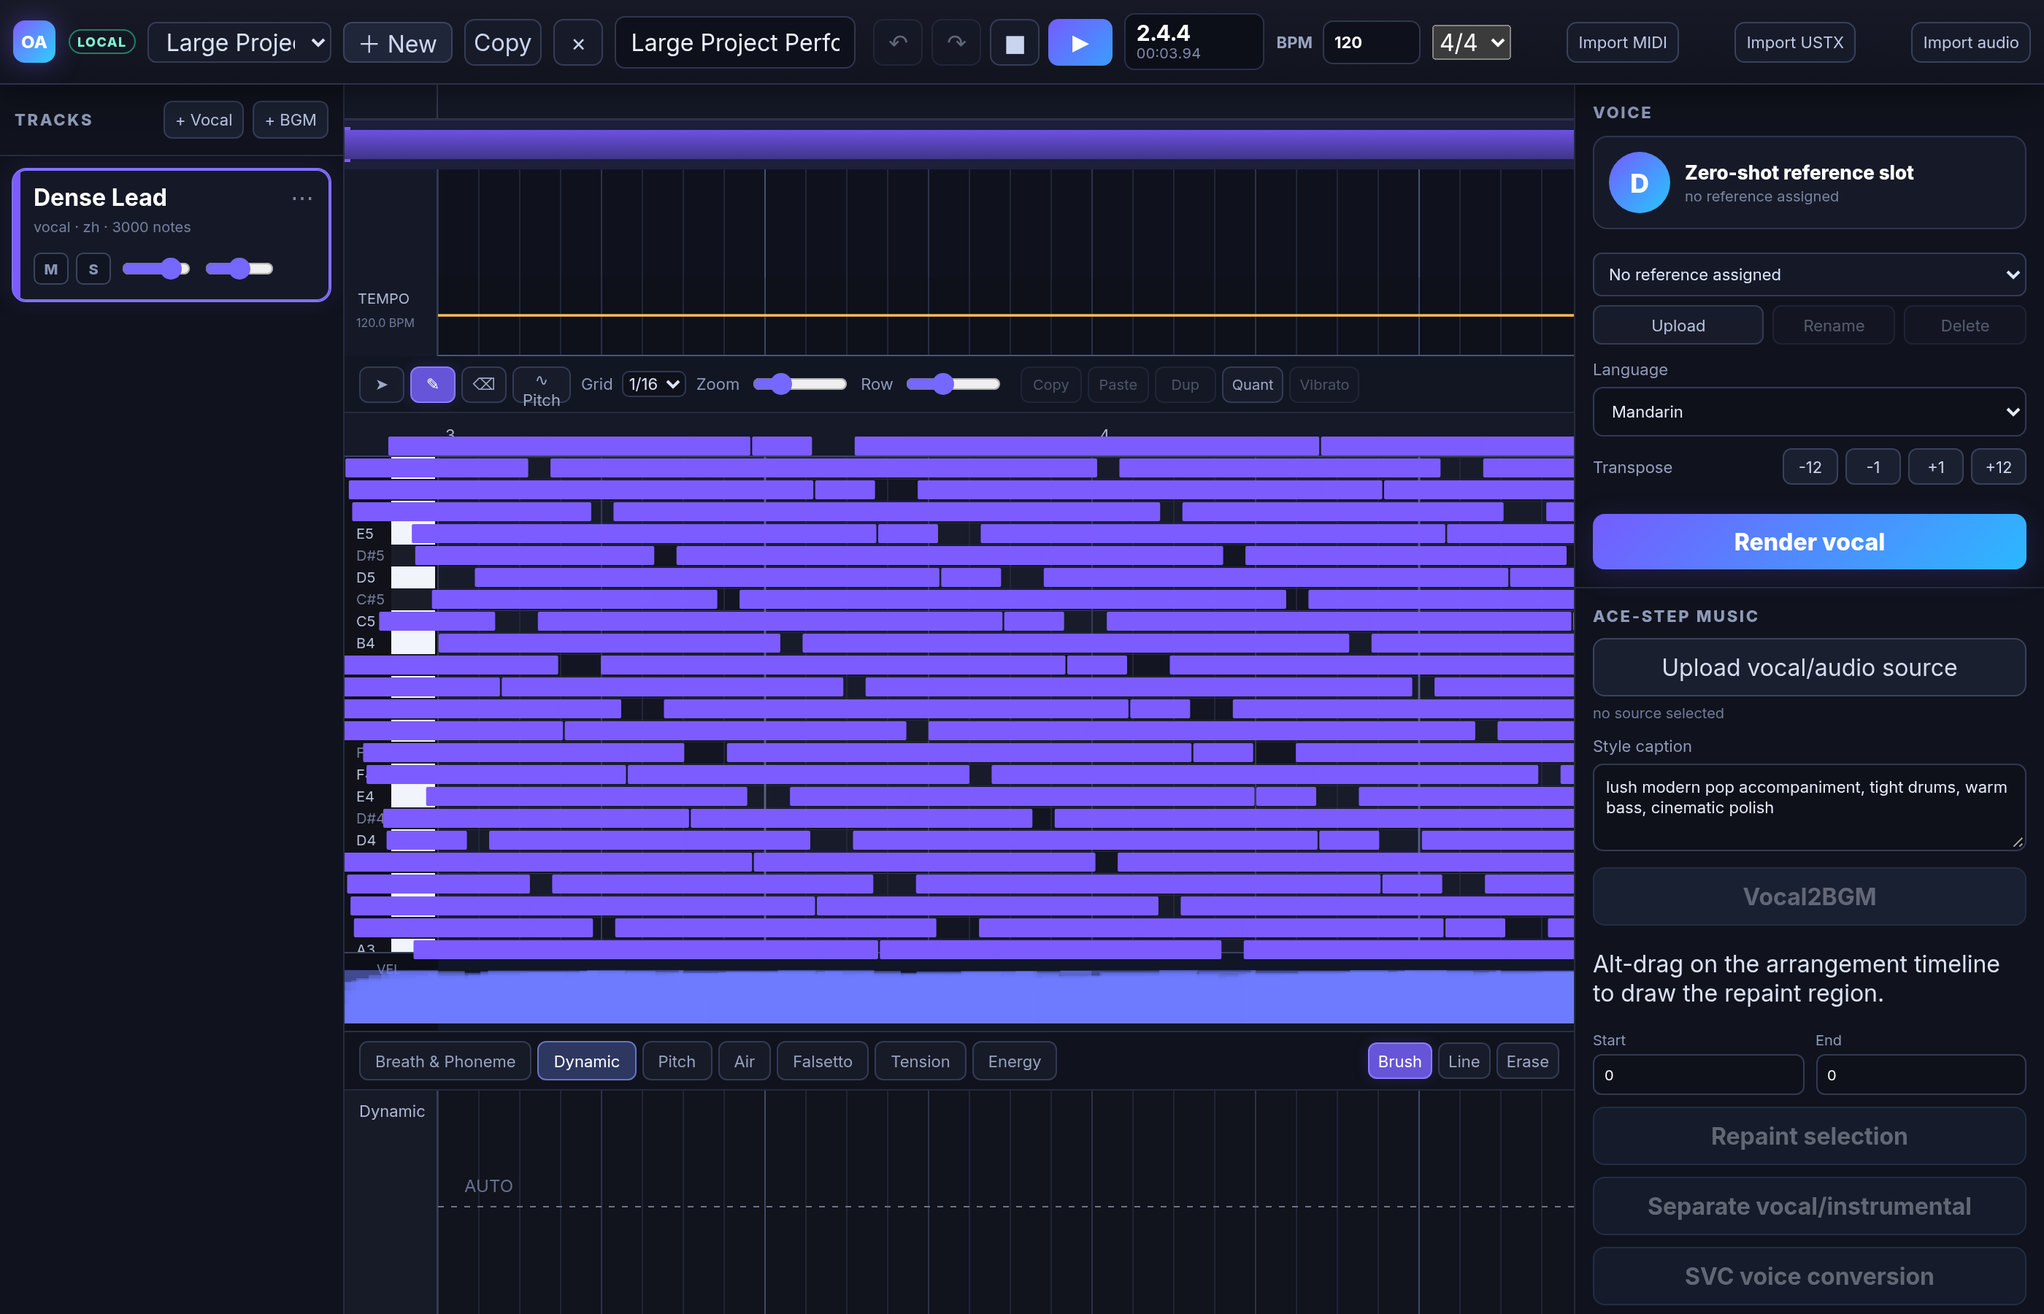
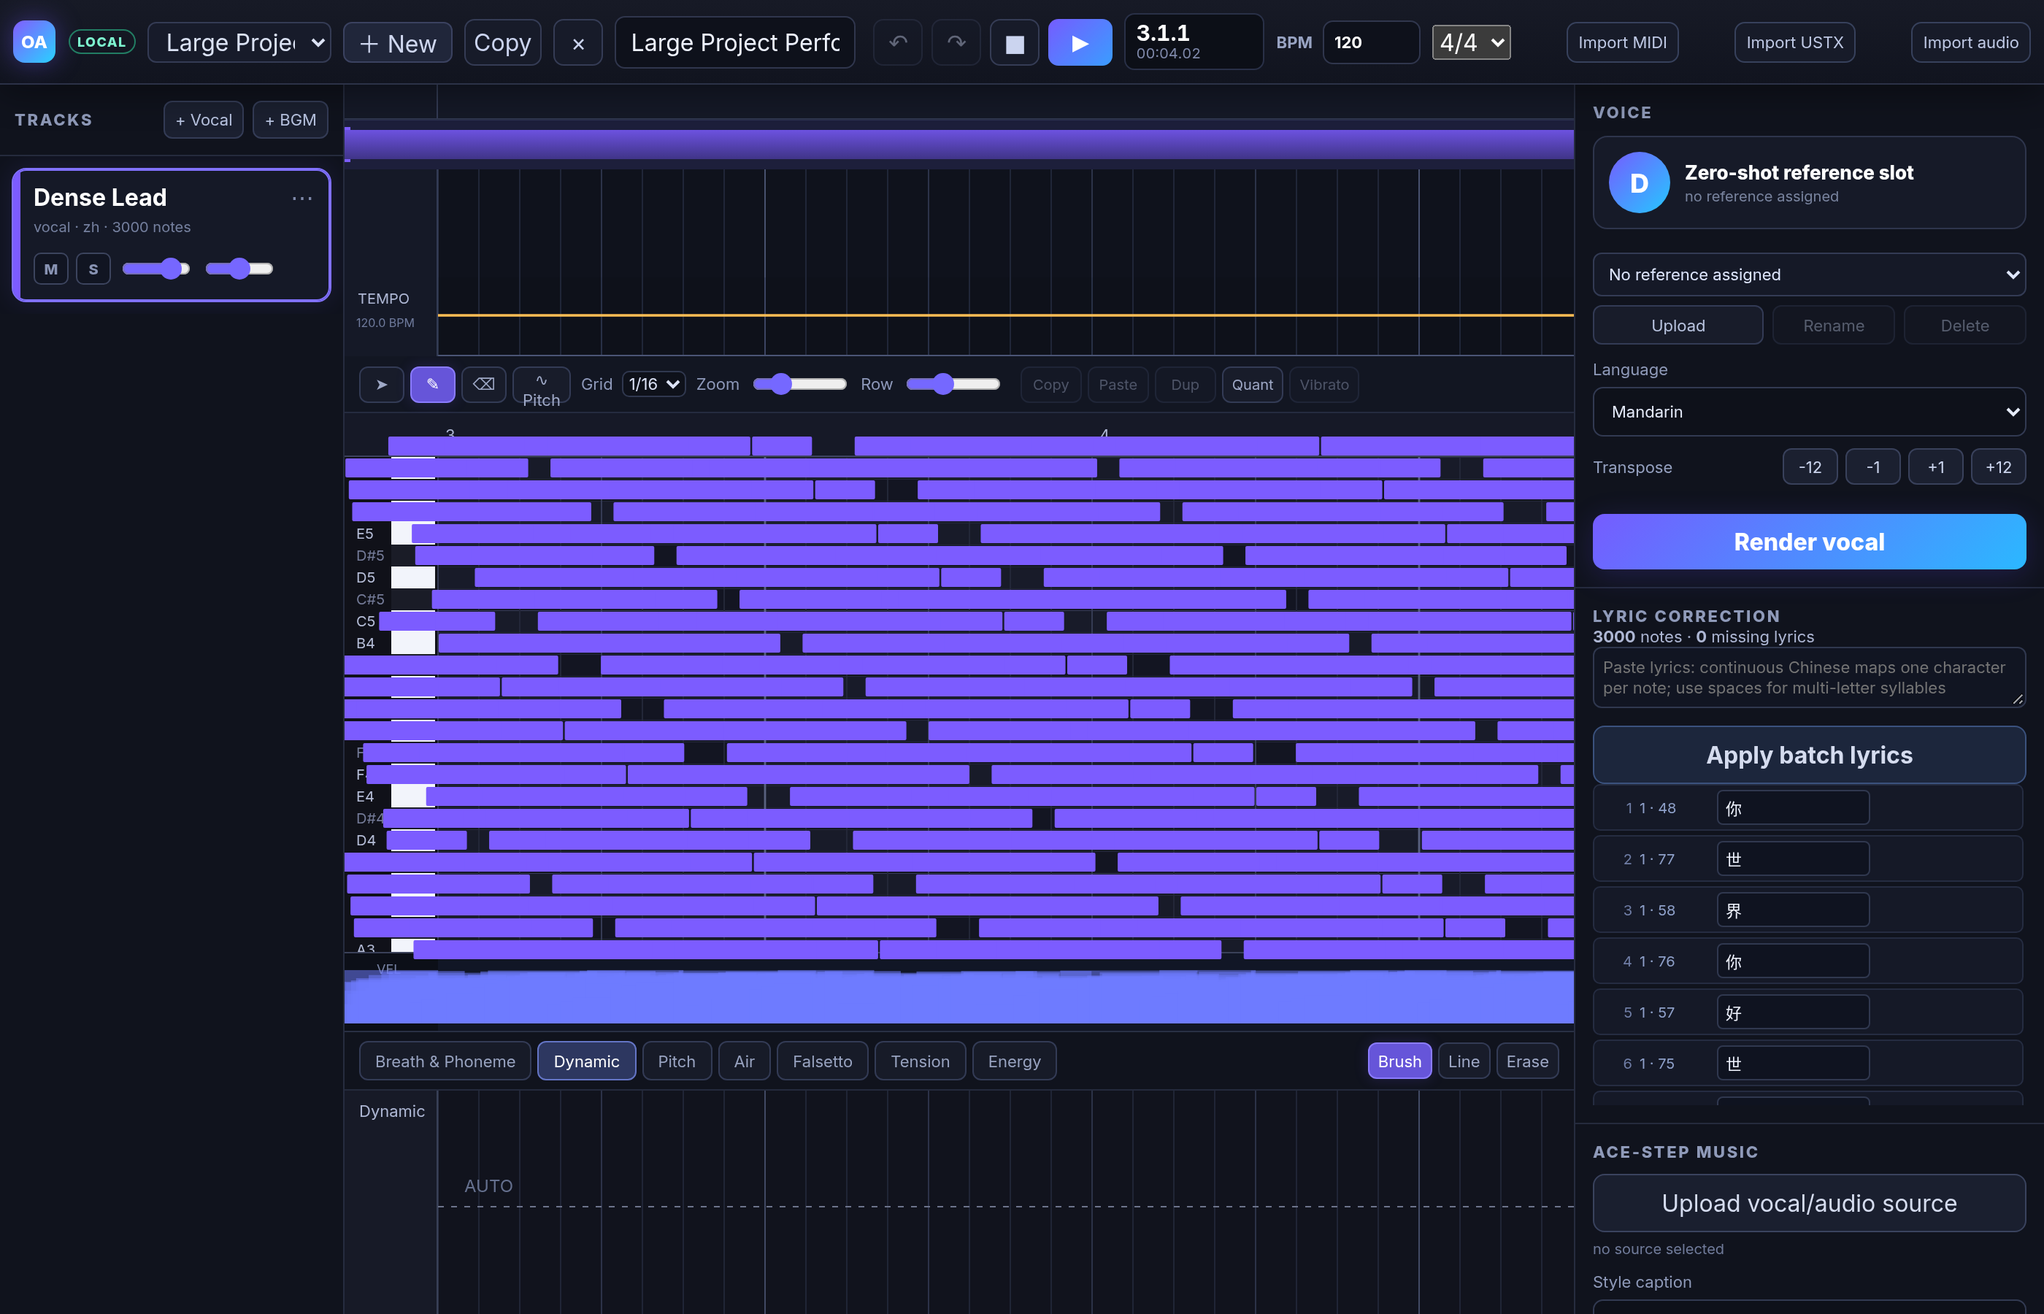
Implement dedicated lyric correction workflow

Changed region(s): [[0.7768, 0.4667, 0.9943, 0.9956], [0.5593, 0.0, 0.5904, 0.0311]]

diff --git a/frontend/src/components/RenderPanel.tsx b/frontend/src/components/RenderPanel.tsx
@@ -1,6 +1,7 @@
 import { useEffect, useRef, useState } from 'react'
 import { api, renderFileUrl, uploadFile, uploadVoice } from '../api'
-import type { Project, RenderJob, Track, VoiceProfile } from '../types'
+import { barTicks, ticksToSeconds } from '../tempo'
+import type { Note, Project, RenderJob, Track, VoiceProfile } from '../types'
 
 interface Props {
   project: Project
@@ -20,6 +21,8 @@ export default function RenderPanel(props: Props) {
   const [busy, setBusy] = useState<string | null>(null)
   const [error, setError] = useState('')
   const [voices, setVoices] = useState<VoiceProfile[]>([])
+  const [batchLyrics, setBatchLyrics] = useState('')
+  const [lyricsError, setLyricsError] = useState('')
   const referenceInput = useRef<HTMLInputElement | null>(null)
   const audioInput = useRef<HTMLInputElement | null>(null)
 
@@ -102,6 +105,50 @@ export default function RenderPanel(props: Props) {
     } catch (e: any) { setError(e.message || String(e)) }
   }
 
+
+  const sortedNotes = props.track?.type === 'vocal' ? [...props.track.notes].sort((a, b) => a.start_ticks - b.start_ticks || a.pitch - b.pitch) : []
+  const missingLyrics = sortedNotes.filter(note => !note.lyric.trim()).length
+
+  function lyricTokens(text: string): string[] {
+    return text.trim().split(/\s+/).filter(Boolean).flatMap(chunk => {
+      // Continuous CJK input is one syllable per character; whitespace can still be
+      // used to force a multi-character word/romanized syllable onto one note.
+      return /[\u3400-\u9fff\uf900-\ufaff]/.test(chunk) ? Array.from(chunk) : [chunk]
+    })
+  }
+
+  function commitLyric(note: Note, value: string) {
+    if (!props.track || value.trim() === note.lyric) return
+    const noteId = note.id
+    const lyric = value.trim()
+    props.onPatchTrack(props.track.id, {
+      notes: props.track.notes.map(item => item.id === noteId ? { ...item, lyric, phonemes: [] } : item),
+    })
+    setLyricsError('')
+  }
+
+  function applyBatchLyrics() {
+    if (!props.track) return
+    const tokens = lyricTokens(batchLyrics)
+    if (!tokens.length) {
+      setLyricsError('Paste lyrics before applying batch correction.')
+      return
+    }
+    if (tokens.length !== sortedNotes.length) {
+      setLyricsError(`Lyric token count ${tokens.length} does not match note count ${sortedNotes.length}; nothing was changed.`)
+      return
+    }
+    const trackId = props.track.id
+    props.onPatchTrack(trackId, {
+      notes: props.track.notes.map(note => {
+        const index = sortedNotes.findIndex(item => item.id === note.id)
+        return index >= 0 ? { ...note, lyric: tokens[index], phonemes: [] } : note
+      }),
+    })
+    setBatchLyrics('')
+    setLyricsError('')
+  }
+
   const selectedVoice = voices.find(voice => voice.id === props.track?.voice_id) || voices.find(voice => voice.path === props.track?.reference_voice_path) || null
 
   return (
@@ -144,6 +191,42 @@ export default function RenderPanel(props: Props) {
             </button>
           </>
         ) : <div className="empty-state">Select a track</div>}
+      </section>
+
+      <section className="side-section lyric-correction-section">
+        <div className="panel-title">Lyric correction</div>
+        {props.track?.type === 'vocal' && sortedNotes.length ? (
+          <>
+            <div className="lyric-summary"><strong>{sortedNotes.length}</strong> notes · <strong>{missingLyrics}</strong> missing lyrics</div>
+            <textarea
+              className="batch-lyrics-input"
+              rows={2}
+              value={batchLyrics}
+              placeholder="Paste lyrics: continuous Chinese maps one character per note; use spaces for multi-letter syllables"
+              onChange={event => setBatchLyrics(event.target.value)}
+            />
+            <button className="wide-action secondary" onClick={applyBatchLyrics}>Apply batch lyrics</button>
+            {lyricsError && <div className="inline-error">{lyricsError}</div>}
+            <div className="lyric-correction-list">
+              {sortedNotes.map((note, index) => {
+                const bar = Math.floor(note.start_ticks / barTicks(props.project)) + 1
+                return (
+                  <div key={`${note.id}:${note.lyric}`} className={`lyric-correction-row ${note.lyric.trim() ? '' : 'missing'}`}>
+                    <span className="lyric-index">{index + 1}</span>
+                    <span className="lyric-position" title={`${ticksToSeconds(props.project, note.start_ticks).toFixed(2)}s`}>{bar} · {note.pitch}</span>
+                    <input
+                      defaultValue={note.lyric}
+                      placeholder="missing"
+                      onBlur={event => commitLyric(note, event.target.value)}
+                      onKeyDown={event => { if (event.key === 'Enter') (event.target as HTMLInputElement).blur() }}
+                    />
+                    <span className="lyric-phonemes">{note.phonemes.map(item => item.symbol).join(' ')}</span>
+                  </div>
+                )
+              })}
+            </div>
+          </>
+        ) : <div className="empty-state">Select a vocal track with notes</div>}
       </section>
 
       <section className="side-section">

diff --git a/frontend/src/styles.css b/frontend/src/styles.css
@@ -396,3 +396,14 @@ button:disabled { cursor: not-allowed; opacity: .42; }
 
 .phoneme-readout:empty { display: none; }
 .phoneme-readout { min-width: 110px; text-align: right; color: #8be5c7; font-size: 10px; font-variant-numeric: tabular-nums; }
+
+.lyric-correction-section textarea, .batch-lyrics-input { width: 100%; box-sizing: border-box; resize: vertical; background: #111522; color: #dfe7ff; border: 1px solid #30384f; border-radius: 6px; padding: 6px; font-size: 11px; }
+.lyric-summary { color: #aeb7d4; font-size: 11px; }
+.lyric-correction-list { max-height: 220px; overflow: auto; display: flex; flex-direction: column; gap: 3px; padding-right: 2px; }
+.lyric-correction-row { display: grid; grid-template-columns: 22px 48px minmax(48px, 1fr) minmax(50px, .9fr); gap: 5px; align-items: center; padding: 3px 4px; border: 1px solid #252c41; border-radius: 5px; background: #151927; }
+.lyric-correction-row.missing { border-color: #6d4a34; background: #1e1a22; }
+.lyric-correction-row input { min-width: 0; height: 24px; background: #0f1320; color: #f0f4ff; border: 1px solid #30384f; border-radius: 4px; padding: 0 5px; font-size: 11px; }
+.lyric-index { color: #6f7da5; font-size: 10px; text-align: right; }
+.lyric-position { color: #8ea0c9; font-size: 10px; white-space: nowrap; }
+.lyric-phonemes { color: #68a88f; font-size: 9px; overflow: hidden; text-overflow: ellipsis; white-space: nowrap; }
+.inline-error { color: #ff9c9c; font-size: 10px; line-height: 1.35; }

diff --git a/tests/test_cli_editing.py b/tests/test_cli_editing.py
@@ -6,6 +6,7 @@ import sys
 import numpy as np
 import soundfile as sf
 
+from openace.cli import json_payload
 from openace.core.project_store import ProjectStore
 
 
@@ -63,3 +64,10 @@ def test_cli_agent_editing_commands_roundtrip(tmp_path):
     assert stored_track.clips[0].label == ""
     assert stored.tempo_map[0].bpm == 65
     assert stored_track.voice_id == "voice_cli"
+
+
+def test_long_inline_json_is_not_mistaken_for_a_path():
+    raw = json.dumps([{"ticks": index * 480, "value": 0.5} for index in range(500)])
+    assert len(raw) > 4096
+    payload = json_payload(raw)
+    assert len(payload) == 500 and payload[-1]["ticks"] == 499 * 480

diff --git a/openace/cli.py b/openace/cli.py
@@ -58,8 +58,12 @@ def save_and_notify(store: ProjectStore, project) -> None:
 
 def json_payload(raw: str):
     candidate = Path(raw)
-    if candidate.exists():
-        return json.loads(candidate.read_text(encoding="utf-8"))
+    try:
+        if candidate.exists():
+            return json.loads(candidate.read_text(encoding="utf-8"))
+    except OSError:
+        # Inline JSON can exceed host filename limits; it is payload text, not a path.
+        pass
     return json.loads(raw)
 
 

diff --git a/PARITY_MATRIX.md b/PARITY_MATRIX.md
@@ -2,7 +2,7 @@
 
 Status legend: **Done** (implemented and exercised end-to-end in this repository), **Partial** (real implementation exists but production depth or validation is incomplete), **Gap** (missing). This is an adversarial living audit, not marketing copy.
 
-Last audit iteration: 2026-11-27, after editable time-signature iteration and independent browser QA.
+Last audit iteration: 2026-11-27, after dedicated lyric-correction iteration and independent browser QA.
 
 ## P0 — synthesis cores and acoustic invariants
 
@@ -41,7 +41,7 @@ Last audit iteration: 2026-11-27, after editable time-signature iteration and in
 | Capability | Requirement | Status | Evidence and remaining gap |
 |---|---|---:|---|
 | Audio-to-MIDI import | Upload sung audio and edit extracted notes | **Partial** | `/api/import/audio`, UI control, librosa/pyin extraction, octave correction, explicit no-pitch failure, and local faster-whisper word-timestamp alignment are browser/API verified on a real vocal example. Empty unaligned notes remain blank rather than placeholder text. Monophonic extraction quality and lyric correction depth remain below a commercial editor. |
-| ASR lyrics | Real local transcription for cover/SVC | **Partial** | Local faster-whisper word timestamps are integrated into audio import with detected language, async execution, strict no-placeholder failure, and browser proof. A dedicated lyric-correction workflow and SVC-side lyric display remain absent. |
+| ASR lyrics | Real local transcription for cover/SVC | **Partial** | Local faster-whisper word timestamps are integrated into audio import with detected language, async execution, strict no-placeholder failure, and browser proof. A dedicated browser-verified lyric-correction workflow now provides per-note editing, position/phoneme feedback, missing counts, exact-count batch distribution, atomic mismatch rejection, undo/redo, persistence, and phoneme regeneration. SVC-side lyric display remains absent. |
 | Cantonese lyrics | Validated Jyutping frontend and engine tokens | **Partial** | pycantonese-backed onset/nucleus/coda editor phonemes, syllabic nasals, loud unknown-character errors, exact `yue_*` SoulX phones, canonical Cantonese metadata, UI browser proof, and fixture render proof are implemented. Polyphonic character disambiguation and real GPU listening remain unvalidated. |
 | Piecewise tempo timing | Musical ticks and audio seconds stay correct across tempo changes | **Done** | Core bidirectional tick/second conversion integrates tempo segments; SoulX metadata/F0, expression DSP, master clip offsets/fades/crossfades, diagnostics, USTX/SVP/VPR/MIDI/LRC export/import, frontend transport/waveform/repaint/playback all use shared piecewise conversion. Regression and live browser playback proof exists. |
 | WAV master | Streaming-safe stereo mixdown | **Done** | Clip-aware mixing with offsets/duplicate-path suppression/volume/crossfades writes through transparent constant-gain normalization when possible, with two-pass ffmpeg loudnorm fallback for peaky material. Output is independently measured through ffmpeg EBU R128 loudness/true-peak statistics at about -14 LUFS and below -1 dBTP; non-conforming edge material fails loudly rather than silently exporting a false master. |

diff --git a/artifacts/e2e_screenshots/lyric_correction/LYRIC_CORRECTION_QA_REPORT.md b/artifacts/e2e_screenshots/lyric_correction/LYRIC_CORRECTION_QA_REPORT.md
@@ -1,0 +1,37 @@
+# Lyric correction QA report
+
+Date: 2026-11-27
+Scope: focused Lyric correction panel acceptance in real visible Chrome at 1272×837, fixture backend.
+
+## Verdict
+
+All focused acceptance checks passed. No Lyric-correction implementation defect was confirmed.
+
+## Quantitative/functional evidence
+
+- Four blank setup notes were present; section appeared with summary `4 notes · 4 missing lyrics` initially.
+- Count mismatch `春风笑` (3 tokens vs 4 notes) displayed exact error `Lyric token count 3 does not match note count 4; nothing was changed.` Backend lyrics remained all empty.
+- Exact continuous CJK paste `春风笑靥` mapped one Unicode character per note.
+- After apply: backend lyrics exactly `['春','风','笑','靥']`; summary `4 notes · 0 missing lyrics`; row input values matched exactly.
+- Backend phoneme counts regenerated: `[2,2,2,1]`; visible feedback included `ʈʂʰ uən`, `f əŋ`, `ɕ iau`, `iɛ`.
+- Reload persistence passed: same lyrics and nonzero phoneme counts after browser reload/project GET.
+- Per-note edit changed first lyric to `猫`; visible feedback `m au`; backend phoneme count remained nonzero.
+- Undo/redo passed for row edit (`猫` → `春` → `猫`).
+- Batch undo/redo passed independently: second batch `星辰大海` applied, undo restored `['猫','风','笑','靥']`, redo restored `星辰大海`.
+- Layout geometry showed four rows inside the right panel with no input overflow and no phoneme/input overlap; screenshot review found compact professional layout.
+- No console errors. Only expected `/api/events` SSE aborts occurred during deliberate reload.
+
+## Incidental implementation concern outside this panel
+
+The CLI `json_payload` helper crashed when given a long inline JSON array because `Path(raw).exists()` raises `Errno 36 File name too long`. I worked around it by passing a JSON file path. This does not affect the Lyric correction panel, but it is a real CLI robustness defect if inline JSON is intended for larger payloads.
+
+## Evidence
+
+- `lyric_correction_results.json`
+- `01_blank_notes_section.png`
+- `02_count_mismatch_error.png`
+- `03_batch_applied_phonemes.png`
+- `04_reload_persistence.png`
+- `05_row_edit_phonemes.png`
+- `06_final_layout.png`
+- `07_batch_undo_redo.png`

diff --git a/VERIFICATION_REPORT.md b/VERIFICATION_REPORT.md
@@ -624,3 +624,15 @@ Implemented and verified:
 - Independent visible-Chrome QA at exact 1272×837 verified default 4/4, visible switch to 6/8, backend persistence, consistently narrowed arrangement/piano/automation/tempo grids with quantitative 448px→336px evidence, transport tick 1440 reading bar `2.1`, reload persistence, undo/redo, and zero console or meaningful network errors. Evidence: `artifacts/e2e_screenshots/time_signature/`.
 
 Validation after iteration 40: targeted time-signature tests passed; full automated suite reached 98 passed after final regression.
+
+## Iteration 41 — dedicated lyric correction workflow
+
+Implemented and verified:
+
+- Added a compact right-panel **Lyric correction** workflow for vocal tracks with accurate total/missing counts, bar·pitch positions, per-note editable rows, missing-state styling, and regenerated phoneme feedback.
+- Batch paste supports continuous CJK one-character-per-note correction while whitespace-separated chunks can force multi-letter/romanized syllables onto one note. Count mismatches fail atomically with an explicit error rather than partially overwriting lyrics.
+- Lyric commits clear stale phonemes, use normal project persistence/undo, and let backend validation regenerate language-correct timed phonemes. Per-row edits commit on blur/Enter without creating one undo item per keystroke.
+- Independent visible-Chrome QA verified continuous CJK batch mapping (`春风笑靥` → four per-note lyrics), mismatch atomicity, regenerated Mandarin phonemes, reload persistence, per-note correction (`猫` → `m au`), independent undo/redo for row and batch edits, compact 1272×837 layout, and zero console/meaningful network errors. Evidence: `artifacts/e2e_screenshots/lyric_correction/`.
+- Fixed the incidental CLI robustness defect found by QA: long inline JSON no longer crashes in `Path.exists()` with `Errno 36`; regression coverage proves >4096-byte inline JSON parses as payload rather than a path.
+
+Validation after iteration 41: frontend production build passed; Python compile passed; full automated suite passed (99 collected tests).

diff --git a/README.md b/README.md
@@ -91,6 +91,10 @@ In the arrangement canvas, hold **Alt** and drag across the timeline to draw the
 
 `Import audio` transcribes a monophonic vocal into editable notes with librosa/pYIN octave-error correction, then runs local faster-whisper with word-level timestamps. Each recognized word is assigned once to the overlapping note (or a near-onset note within 300ms), the detected language is stored on the imported track, and CPU-heavy transcription runs outside the FastAPI event loop. Unaligned notes stay visually blank; OpenACE never fills them with “la”, dash, or fabricated placeholder lyrics. If ASR cannot produce or align timestamped words, import fails loudly instead of pretending the lyrics are known. The default local model is `small`; override with `OPENACE_WHISPER_MODEL`, `OPENACE_WHISPER_DEVICE`, and `OPENACE_WHISPER_COMPUTE_TYPE` when needed.
 
+## Lyric correction
+
+The right-hand **Lyric correction** panel exposes a compact per-note correction workflow for imported or manually written vocal tracks. It shows note/missing counts, bar·pitch position, editable lyric rows, and regenerated phoneme feedback. Batch paste maps continuous CJK text one Unicode character per note while whitespace-separated chunks stay together for romanized/multi-letter syllables; a count mismatch is rejected atomically rather than partially overwriting the melody. Per-note commits and batch application use normal persistence/undo, and changing a lyric clears stale phonemes so the strict backend validator regenerates timing for the new language-specific lyric.
+
 ## Multilingual lyric validation
 
 Mandarin uses strict pinyin decomposition, English uses CMUdict-backed phones, and Cantonese uses `pycantonese` tone-bearing Jyutping. Cantonese editor phonemes decompose onset/nucleus/coda explicitly (including syllabic `m̩`/`ŋ̩`), while SoulX metadata emits validated `yue_<jyutping>` phones with canonical language `Cantonese`. Unsupported characters or missing pronunciations fail loudly; Japanese remains unavailable rather than fake because the current SoulX phone set has no Japanese inventory.
